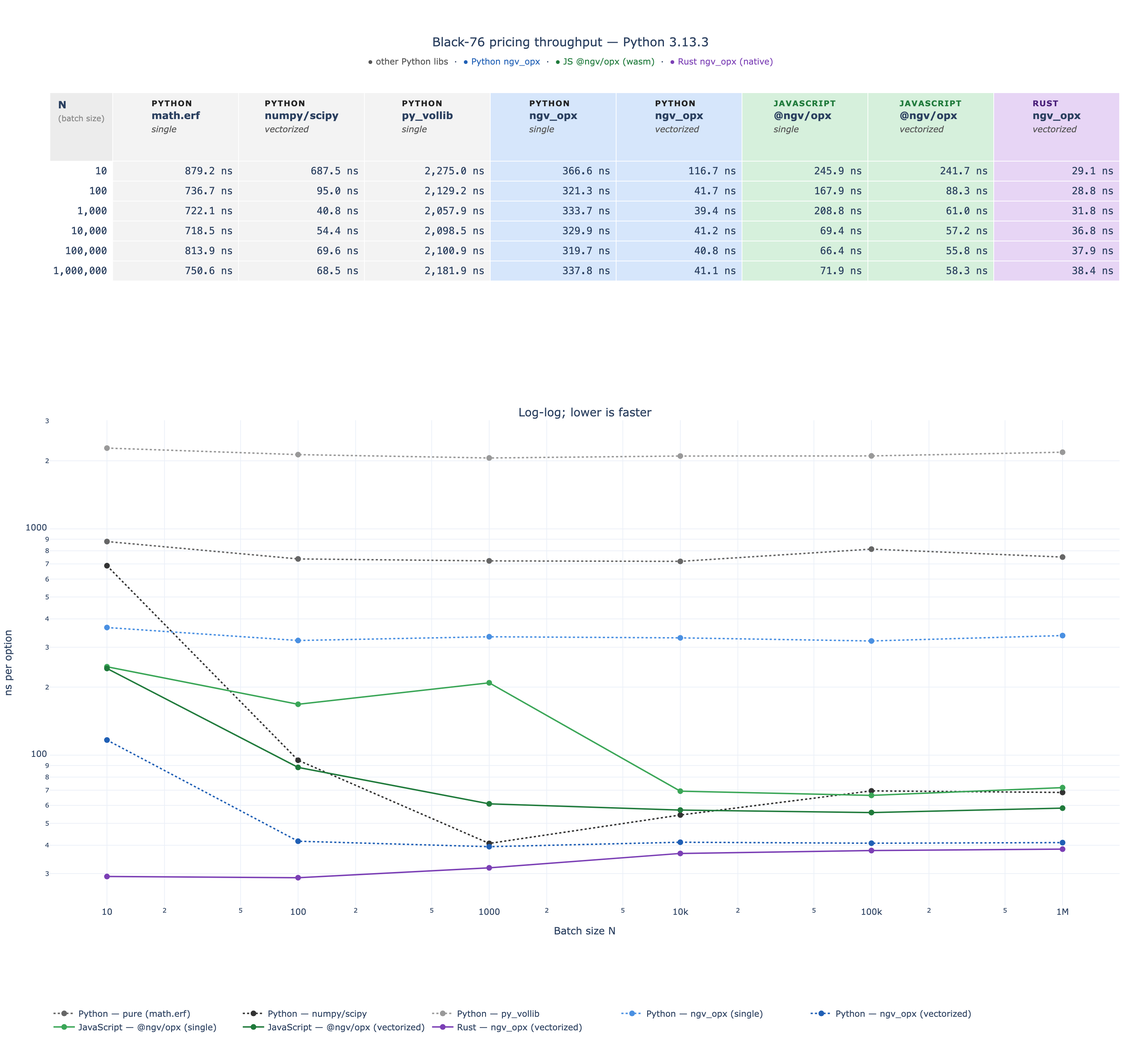
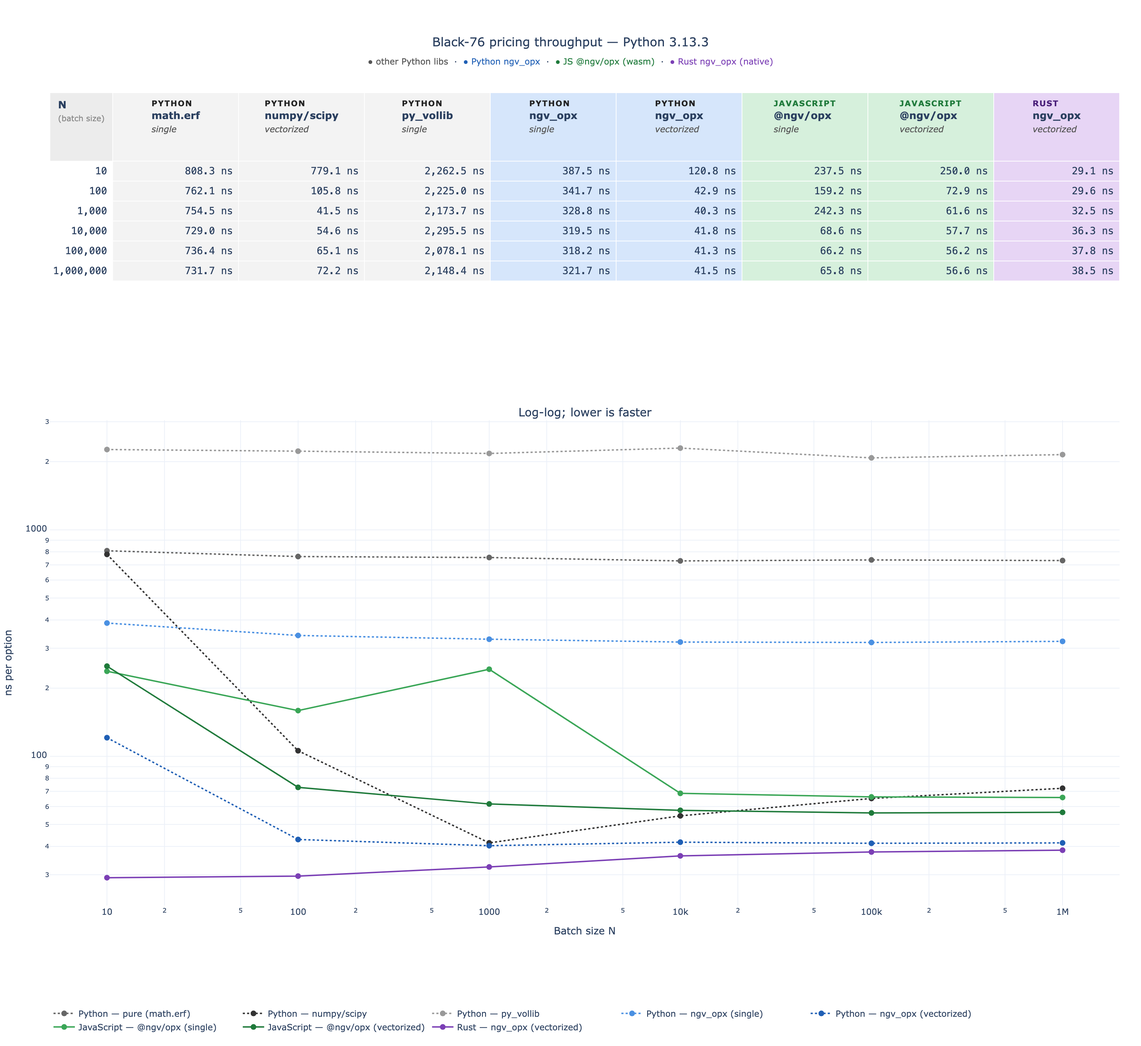
docs: final update on readme

diff --git a/benchmarks/bench_chart.html b/benchmarks/bench_chart.html
@@ -2,6 +2,6 @@
 <head><meta charset="utf-8" /></head>
 <body>
     <div>                        <script>window.PlotlyConfig = {MathJaxConfig: 'local'};</script>
-        <script charset="utf-8" src="https://cdn.plot.ly/plotly-3.5.0.min.js" integrity="sha256-fHbNLP+GlIXN+efbQec78UkemUz3NJp7UmfGxC1tNxs=" crossorigin="anonymous"></script>                <div id="37860feb-a3d4-4de3-b3f6-f09e87c22c12" class="plotly-graph-div" style="height:1100px; width:1200px;"></div>            <script>                window.PLOTLYENV=window.PLOTLYENV || {};                                if (document.getElementById("37860feb-a3d4-4de3-b3f6-f09e87c22c12")) {                    Plotly.newPlot(                        "37860feb-a3d4-4de3-b3f6-f09e87c22c12",                        [{"hovertemplate":"\u003cb\u003ePython — pure (math.erf)\u003c\u002fb\u003e\u003cbr\u003elanguage: Python\u003cbr\u003eN=%{x:,}\u003cbr\u003e%{y:.1f} ns\u002foption\u003cextra\u003e\u003c\u002fextra\u003e","line":{"color":"#666666","dash":"dot","width":2},"marker":{"size":8},"mode":"lines+markers","name":"Python — pure (math.erf)","x":[10,100,1000,10000,100000,1000000],"y":[879.2034350335598,736.6703357547522,722.0830302685499,718.4874964877963,813.9483293052763,750.6183749064803],"type":"scatter","xaxis":"x","yaxis":"y"},{"hovertemplate":"\u003cb\u003ePython — numpy\u002fscipy\u003c\u002fb\u003e\u003cbr\u003elanguage: Python\u003cbr\u003eN=%{x:,}\u003cbr\u003e%{y:.1f} ns\u002foption\u003cextra\u003e\u003c\u002fextra\u003e","line":{"color":"#333333","dash":"dot","width":2},"marker":{"size":8},"mode":"lines+markers","name":"Python — numpy\u002fscipy","x":[10,100,1000,10000,100000,1000000],"y":[687.5023245811462,95.00072337687016,40.75001925230026,54.408295545727015,69.5524993352592,68.46099998801947],"type":"scatter","xaxis":"x","yaxis":"y"},{"hovertemplate":"\u003cb\u003ePython — py_vollib\u003c\u002fb\u003e\u003cbr\u003elanguage: Python\u003cbr\u003eN=%{x:,}\u003cbr\u003e%{y:.1f} ns\u002foption\u003cextra\u003e\u003c\u002fextra\u003e","line":{"color":"#999999","dash":"dot","width":2},"marker":{"size":8},"mode":"lines+markers","name":"Python — py_vollib","x":[10,100,1000,10000,100000,1000000],"y":[2274.999860674143,2129.1710436344147,2057.874924503267,2098.4916016459465,2100.8558303583413,2181.9298750488088],"type":"scatter","xaxis":"x","yaxis":"y"},{"hovertemplate":"\u003cb\u003ePython — ngv_opx (single)\u003c\u002fb\u003e\u003cbr\u003elanguage: Python\u003cbr\u003eN=%{x:,}\u003cbr\u003e%{y:.1f} ns\u002foption\u003cextra\u003e\u003c\u002fextra\u003e","line":{"color":"#4a90e2","dash":"dot","width":2},"marker":{"size":8},"mode":"lines+markers","name":"Python — ngv_opx (single)","x":[10,100,1000,10000,100000,1000000],"y":[366.59184843301773,321.25040888786316,333.6670342832804,329.92910128086805,319.713749922812,337.77124993503094],"type":"scatter","xaxis":"x","yaxis":"y"},{"hovertemplate":"\u003cb\u003ePython — ngv_opx (vectorized)\u003c\u002fb\u003e\u003cbr\u003elanguage: Python\u003cbr\u003eN=%{x:,}\u003cbr\u003e%{y:.1f} ns\u002foption\u003cextra\u003e\u003c\u002fextra\u003e","line":{"color":"#1f5fb5","dash":"dot","width":2},"marker":{"size":8},"mode":"lines+markers","name":"Python — ngv_opx (vectorized)","x":[10,100,1000,10000,100000,1000000],"y":[116.69471859931946,41.66970029473305,39.416016079485416,41.24579718336463,40.838749846443534,41.09254200011492],"type":"scatter","xaxis":"x","yaxis":"y"},{"hovertemplate":"\u003cb\u003eJavaScript — @ngv\u002fopx (single)\u003c\u002fb\u003e\u003cbr\u003elanguage: JavaScript\u003cbr\u003eN=%{x:,}\u003cbr\u003e%{y:.1f} ns\u002foption\u003cextra\u003e\u003c\u002fextra\u003e","line":{"color":"#3aa657","dash":"solid","width":2},"marker":{"size":8},"mode":"lines+markers","name":"JavaScript — @ngv\u002fopx (single)","x":[10,100,1000,10000,100000,1000000],"y":[245.89999999982123,167.91999999998808,208.83300000000204,69.36249999999973,66.41874999999999,71.88162500000001],"type":"scatter","xaxis":"x","yaxis":"y"},{"hovertemplate":"\u003cb\u003eJavaScript — @ngv\u002fopx (vectorized)\u003c\u002fb\u003e\u003cbr\u003elanguage: JavaScript\u003cbr\u003eN=%{x:,}\u003cbr\u003e%{y:.1f} ns\u002foption\u003cextra\u003e\u003c\u002fextra\u003e","line":{"color":"#1f7a3b","dash":"solid","width":2},"marker":{"size":8},"mode":"lines+markers","name":"JavaScript — @ngv\u002fopx (vectorized)","x":[10,100,1000,10000,100000,1000000],"y":[241.7000000001224,88.33000000002754,60.9579999999994,57.22079999999998,55.78916999999996,58.33866699999999],"type":"scatter","xaxis":"x","yaxis":"y"},{"hovertemplate":"\u003cb\u003eRust — ngv_opx (vectorized)\u003c\u002fb\u003e\u003cbr\u003elanguage: Rust\u003cbr\u003eN=%{x:,}\u003cbr\u003e%{y:.1f} ns\u002foption\u003cextra\u003e\u003c\u002fextra\u003e","line":{"color":"#7b3fb5","dash":"solid","width":2},"marker":{"size":8},"mode":"lines+markers","name":"Rust — ngv_opx (vectorized)","x":[10,100,1000,10000,100000,1000000],"y":[29.1,28.75,31.791,36.8,37.9025,38.4487],"type":"scatter","xaxis":"x","yaxis":"y"},{"cells":{"align":"right","fill":{"color":[["white","white","white","white","white","white"],["#f3f3f3","#f3f3f3","#f3f3f3","#f3f3f3","#f3f3f3","#f3f3f3"],["#f3f3f3","#f3f3f3","#f3f3f3","#f3f3f3","#f3f3f3","#f3f3f3"],["#f3f3f3","#f3f3f3","#f3f3f3","#f3f3f3","#f3f3f3","#f3f3f3"],["#d6e6fb","#d6e6fb","#d6e6fb","#d6e6fb","#d6e6fb","#d6e6fb"],["#d6e6fb","#d6e6fb","#d6e6fb","#d6e6fb","#d6e6fb","#d6e6fb"],["#d6f0dc","#d6f0dc","#d6f0dc","#d6f0dc","#d6f0dc","#d6f0dc"],["#d6f0dc","#d6f0dc","#d6f0dc","#d6f0dc","#d6f0dc","#d6f0dc"],["#e7d5f5","#e7d5f5","#e7d5f5","#e7d5f5","#e7d5f5","#e7d5f5"]]},"font":{"family":"monospace","size":14},"height":28,"values":[["10","100","1,000","10,000","100,000","1,000,000"],["879.2 ns","736.7 ns","722.1 ns","718.5 ns","813.9 ns","750.6 ns"],["687.5 ns","95.0 ns","40.8 ns","54.4 ns","69.6 ns","68.5 ns"],["2,275.0 ns","2,129.2 ns","2,057.9 ns","2,098.5 ns","2,100.9 ns","2,181.9 ns"],["366.6 ns","321.3 ns","333.7 ns","329.9 ns","319.7 ns","337.8 ns"],["116.7 ns","41.7 ns","39.4 ns","41.2 ns","40.8 ns","41.1 ns"],["245.9 ns","167.9 ns","208.8 ns","69.4 ns","66.4 ns","71.9 ns"],["241.7 ns","88.3 ns","61.0 ns","57.2 ns","55.8 ns","58.3 ns"],["29.1 ns","28.8 ns","31.8 ns","36.8 ns","37.9 ns","38.4 ns"]]},"columnwidth":[40,80,80,80,80,80,80,80,80],"header":{"align":"center","fill":{"color":["#ececec","#f3f3f3","#f3f3f3","#f3f3f3","#d6e6fb","#d6e6fb","#d6f0dc","#d6f0dc","#e7d5f5"]},"font":{"size":14},"height":96,"values":["\u003cb style='font-size:14px'\u003eN\u003c\u002fb\u003e\u003cbr\u003e\u003cspan style='font-size:11px;color:#888'\u003e(batch size)\u003c\u002fspan\u003e","\u003cspan style='background:#dcdcdc;color:#222222;font-size:11px;font-weight:700;padding:2px 8px;border-radius:3px;letter-spacing:1px;'\u003ePYTHON\u003c\u002fspan\u003e\u003cbr\u003e\u003cspan style='background:#f3f3f3;display:inline-block;padding:1px 8px;border-radius:3px;'\u003e\u003cb style='font-size:14px'\u003emath.erf\u003c\u002fb\u003e\u003c\u002fspan\u003e\u003cbr\u003e\u003cspan style='font-size:12px;color:#555;font-style:italic'\u003esingle\u003c\u002fspan\u003e","\u003cspan style='background:#dcdcdc;color:#222222;font-size:11px;font-weight:700;padding:2px 8px;border-radius:3px;letter-spacing:1px;'\u003ePYTHON\u003c\u002fspan\u003e\u003cbr\u003e\u003cspan style='background:#f3f3f3;display:inline-block;padding:1px 8px;border-radius:3px;'\u003e\u003cb style='font-size:14px'\u003enumpy\u002fscipy\u003c\u002fb\u003e\u003c\u002fspan\u003e\u003cbr\u003e\u003cspan style='font-size:12px;color:#555;font-style:italic'\u003evectorized\u003c\u002fspan\u003e","\u003cspan style='background:#dcdcdc;color:#222222;font-size:11px;font-weight:700;padding:2px 8px;border-radius:3px;letter-spacing:1px;'\u003ePYTHON\u003c\u002fspan\u003e\u003cbr\u003e\u003cspan style='background:#f3f3f3;display:inline-block;padding:1px 8px;border-radius:3px;'\u003e\u003cb style='font-size:14px'\u003epy_vollib\u003c\u002fb\u003e\u003c\u002fspan\u003e\u003cbr\u003e\u003cspan style='font-size:12px;color:#555;font-style:italic'\u003esingle\u003c\u002fspan\u003e","\u003cspan style='background:#dcdcdc;color:#222222;font-size:11px;font-weight:700;padding:2px 8px;border-radius:3px;letter-spacing:1px;'\u003ePYTHON\u003c\u002fspan\u003e\u003cbr\u003e\u003cspan style='background:#d6e6fb;display:inline-block;padding:1px 8px;border-radius:3px;'\u003e\u003cb style='font-size:14px'\u003engv_opx\u003c\u002fb\u003e\u003c\u002fspan\u003e\u003cbr\u003e\u003cspan style='font-size:12px;color:#555;font-style:italic'\u003esingle\u003c\u002fspan\u003e","\u003cspan style='background:#dcdcdc;color:#222222;font-size:11px;font-weight:700;padding:2px 8px;border-radius:3px;letter-spacing:1px;'\u003ePYTHON\u003c\u002fspan\u003e\u003cbr\u003e\u003cspan style='background:#d6e6fb;display:inline-block;padding:1px 8px;border-radius:3px;'\u003e\u003cb style='font-size:14px'\u003engv_opx\u003c\u002fb\u003e\u003c\u002fspan\u003e\u003cbr\u003e\u003cspan style='font-size:12px;color:#555;font-style:italic'\u003evectorized\u003c\u002fspan\u003e","\u003cspan style='background:#c8e6cf;color:#1f7a3b;font-size:11px;font-weight:700;padding:2px 8px;border-radius:3px;letter-spacing:1px;'\u003eJAVASCRIPT\u003c\u002fspan\u003e\u003cbr\u003e\u003cspan style='background:#d6f0dc;display:inline-block;padding:1px 8px;border-radius:3px;'\u003e\u003cb style='font-size:14px'\u003e@ngv\u002fopx\u003c\u002fb\u003e\u003c\u002fspan\u003e\u003cbr\u003e\u003cspan style='font-size:12px;color:#555;font-style:italic'\u003esingle\u003c\u002fspan\u003e","\u003cspan style='background:#c8e6cf;color:#1f7a3b;font-size:11px;font-weight:700;padding:2px 8px;border-radius:3px;letter-spacing:1px;'\u003eJAVASCRIPT\u003c\u002fspan\u003e\u003cbr\u003e\u003cspan style='background:#d6f0dc;display:inline-block;padding:1px 8px;border-radius:3px;'\u003e\u003cb style='font-size:14px'\u003e@ngv\u002fopx\u003c\u002fb\u003e\u003c\u002fspan\u003e\u003cbr\u003e\u003cspan style='font-size:12px;color:#555;font-style:italic'\u003evectorized\u003c\u002fspan\u003e","\u003cspan style='background:#d8c4ea;color:#4a1f7a;font-size:11px;font-weight:700;padding:2px 8px;border-radius:3px;letter-spacing:1px;'\u003eRUST\u003c\u002fspan\u003e\u003cbr\u003e\u003cspan style='background:#e7d5f5;display:inline-block;padding:1px 8px;border-radius:3px;'\u003e\u003cb style='font-size:14px'\u003engv_opx\u003c\u002fb\u003e\u003c\u002fspan\u003e\u003cbr\u003e\u003cspan style='font-size:12px;color:#555;font-style:italic'\u003evectorized\u003c\u002fspan\u003e"]},"type":"table","domain":{"x":[0.0,1.0],"y":[0.602,1.0]}}],                        {"template":{"data":{"barpolar":[{"marker":{"line":{"color":"white","width":0.5},"pattern":{"fillmode":"overlay","size":10,"solidity":0.2}},"type":"barpolar"}],"bar":[{"error_x":{"color":"#2a3f5f"},"error_y":{"color":"#2a3f5f"},"marker":{"line":{"color":"white","width":0.5},"pattern":{"fillmode":"overlay","size":10,"solidity":0.2}},"type":"bar"}],"carpet":[{"aaxis":{"endlinecolor":"#2a3f5f","gridcolor":"#C8D4E3","linecolor":"#C8D4E3","minorgridcolor":"#C8D4E3","startlinecolor":"#2a3f5f"},"baxis":{"endlinecolor":"#2a3f5f","gridcolor":"#C8D4E3","linecolor":"#C8D4E3","minorgridcolor":"#C8D4E3","startlinecolor":"#2a3f5f"},"type":"carpet"}],"choropleth":[{"colorbar":{"outlinewidth":0,"ticks":""},"type":"choropleth"}],"contourcarpet":[{"colorbar":{"outlinewidth":0,"ticks":""},"type":"contourcarpet"}],"contour":[{"colorbar":{"outlinewidth":0,"ticks":""},"colorscale":[[0.0,"#0d0887"],[0.1111111111111111,"#46039f"],[0.2222222222222222,"#7201a8"],[0.3333333333333333,"#9c179e"],[0.4444444444444444,"#bd3786"],[0.5555555555555556,"#d8576b"],[0.6666666666666666,"#ed7953"],[0.7777777777777778,"#fb9f3a"],[0.8888888888888888,"#fdca26"],[1.0,"#f0f921"]],"type":"contour"}],"heatmap":[{"colorbar":{"outlinewidth":0,"ticks":""},"colorscale":[[0.0,"#0d0887"],[0.1111111111111111,"#46039f"],[0.2222222222222222,"#7201a8"],[0.3333333333333333,"#9c179e"],[0.4444444444444444,"#bd3786"],[0.5555555555555556,"#d8576b"],[0.6666666666666666,"#ed7953"],[0.7777777777777778,"#fb9f3a"],[0.8888888888888888,"#fdca26"],[1.0,"#f0f921"]],"type":"heatmap"}],"histogram2dcontour":[{"colorbar":{"outlinewidth":0,"ticks":""},"colorscale":[[0.0,"#0d0887"],[0.1111111111111111,"#46039f"],[0.2222222222222222,"#7201a8"],[0.3333333333333333,"#9c179e"],[0.4444444444444444,"#bd3786"],[0.5555555555555556,"#d8576b"],[0.6666666666666666,"#ed7953"],[0.7777777777777778,"#fb9f3a"],[0.8888888888888888,"#fdca26"],[1.0,"#f0f921"]],"type":"histogram2dcontour"}],"histogram2d":[{"colorbar":{"outlinewidth":0,"ticks":""},"colorscale":[[0.0,"#0d0887"],[0.1111111111111111,"#46039f"],[0.2222222222222222,"#7201a8"],[0.3333333333333333,"#9c179e"],[0.4444444444444444,"#bd3786"],[0.5555555555555556,"#d8576b"],[0.6666666666666666,"#ed7953"],[0.7777777777777778,"#fb9f3a"],[0.8888888888888888,"#fdca26"],[1.0,"#f0f921"]],"type":"histogram2d"}],"histogram":[{"marker":{"pattern":{"fillmode":"overlay","size":10,"solidity":0.2}},"type":"histogram"}],"mesh3d":[{"colorbar":{"outlinewidth":0,"ticks":""},"type":"mesh3d"}],"parcoords":[{"line":{"colorbar":{"outlinewidth":0,"ticks":""}},"type":"parcoords"}],"pie":[{"automargin":true,"type":"pie"}],"scatter3d":[{"line":{"colorbar":{"outlinewidth":0,"ticks":""}},"marker":{"colorbar":{"outlinewidth":0,"ticks":""}},"type":"scatter3d"}],"scattercarpet":[{"marker":{"colorbar":{"outlinewidth":0,"ticks":""}},"type":"scattercarpet"}],"scattergeo":[{"marker":{"colorbar":{"outlinewidth":0,"ticks":""}},"type":"scattergeo"}],"scattergl":[{"marker":{"colorbar":{"outlinewidth":0,"ticks":""}},"type":"scattergl"}],"scattermapbox":[{"marker":{"colorbar":{"outlinewidth":0,"ticks":""}},"type":"scattermapbox"}],"scattermap":[{"marker":{"colorbar":{"outlinewidth":0,"ticks":""}},"type":"scattermap"}],"scatterpolargl":[{"marker":{"colorbar":{"outlinewidth":0,"ticks":""}},"type":"scatterpolargl"}],"scatterpolar":[{"marker":{"colorbar":{"outlinewidth":0,"ticks":""}},"type":"scatterpolar"}],"scatter":[{"fillpattern":{"fillmode":"overlay","size":10,"solidity":0.2},"type":"scatter"}],"scatterternary":[{"marker":{"colorbar":{"outlinewidth":0,"ticks":""}},"type":"scatterternary"}],"surface":[{"colorbar":{"outlinewidth":0,"ticks":""},"colorscale":[[0.0,"#0d0887"],[0.1111111111111111,"#46039f"],[0.2222222222222222,"#7201a8"],[0.3333333333333333,"#9c179e"],[0.4444444444444444,"#bd3786"],[0.5555555555555556,"#d8576b"],[0.6666666666666666,"#ed7953"],[0.7777777777777778,"#fb9f3a"],[0.8888888888888888,"#fdca26"],[1.0,"#f0f921"]],"type":"surface"}],"table":[{"cells":{"fill":{"color":"#EBF0F8"},"line":{"color":"white"}},"header":{"fill":{"color":"#C8D4E3"},"line":{"color":"white"}},"type":"table"}]},"layout":{"annotationdefaults":{"arrowcolor":"#2a3f5f","arrowhead":0,"arrowwidth":1},"autotypenumbers":"strict","coloraxis":{"colorbar":{"outlinewidth":0,"ticks":""}},"colorscale":{"diverging":[[0,"#8e0152"],[0.1,"#c51b7d"],[0.2,"#de77ae"],[0.3,"#f1b6da"],[0.4,"#fde0ef"],[0.5,"#f7f7f7"],[0.6,"#e6f5d0"],[0.7,"#b8e186"],[0.8,"#7fbc41"],[0.9,"#4d9221"],[1,"#276419"]],"sequential":[[0.0,"#0d0887"],[0.1111111111111111,"#46039f"],[0.2222222222222222,"#7201a8"],[0.3333333333333333,"#9c179e"],[0.4444444444444444,"#bd3786"],[0.5555555555555556,"#d8576b"],[0.6666666666666666,"#ed7953"],[0.7777777777777778,"#fb9f3a"],[0.8888888888888888,"#fdca26"],[1.0,"#f0f921"]],"sequentialminus":[[0.0,"#0d0887"],[0.1111111111111111,"#46039f"],[0.2222222222222222,"#7201a8"],[0.3333333333333333,"#9c179e"],[0.4444444444444444,"#bd3786"],[0.5555555555555556,"#d8576b"],[0.6666666666666666,"#ed7953"],[0.7777777777777778,"#fb9f3a"],[0.8888888888888888,"#fdca26"],[1.0,"#f0f921"]]},"colorway":["#636efa","#EF553B","#00cc96","#ab63fa","#FFA15A","#19d3f3","#FF6692","#B6E880","#FF97FF","#FECB52"],"font":{"color":"#2a3f5f"},"geo":{"bgcolor":"white","lakecolor":"white","landcolor":"white","showlakes":true,"showland":true,"subunitcolor":"#C8D4E3"},"hoverlabel":{"align":"left"},"hovermode":"closest","mapbox":{"style":"light"},"paper_bgcolor":"white","plot_bgcolor":"white","polar":{"angularaxis":{"gridcolor":"#EBF0F8","linecolor":"#EBF0F8","ticks":""},"bgcolor":"white","radialaxis":{"gridcolor":"#EBF0F8","linecolor":"#EBF0F8","ticks":""}},"scene":{"xaxis":{"backgroundcolor":"white","gridcolor":"#DFE8F3","gridwidth":2,"linecolor":"#EBF0F8","showbackground":true,"ticks":"","zerolinecolor":"#EBF0F8"},"yaxis":{"backgroundcolor":"white","gridcolor":"#DFE8F3","gridwidth":2,"linecolor":"#EBF0F8","showbackground":true,"ticks":"","zerolinecolor":"#EBF0F8"},"zaxis":{"backgroundcolor":"white","gridcolor":"#DFE8F3","gridwidth":2,"linecolor":"#EBF0F8","showbackground":true,"ticks":"","zerolinecolor":"#EBF0F8"}},"shapedefaults":{"line":{"color":"#2a3f5f"}},"ternary":{"aaxis":{"gridcolor":"#DFE8F3","linecolor":"#A2B1C6","ticks":""},"baxis":{"gridcolor":"#DFE8F3","linecolor":"#A2B1C6","ticks":""},"bgcolor":"white","caxis":{"gridcolor":"#DFE8F3","linecolor":"#A2B1C6","ticks":""}},"title":{"x":0.05},"xaxis":{"automargin":true,"gridcolor":"#EBF0F8","linecolor":"#EBF0F8","ticks":"","title":{"standoff":15},"zerolinecolor":"#EBF0F8","zerolinewidth":2},"yaxis":{"automargin":true,"gridcolor":"#EBF0F8","linecolor":"#EBF0F8","ticks":"","title":{"standoff":15},"zerolinecolor":"#EBF0F8","zerolinewidth":2}}},"xaxis":{"anchor":"y","domain":[0.0,1.0],"title":{"text":"Batch size N"},"type":"log","showgrid":true},"yaxis":{"anchor":"x","domain":[0.0,0.597],"title":{"text":"ns per option"},"type":"log","showgrid":true},"annotations":[{"font":{"size":16},"showarrow":false,"text":"Log-log; lower is faster","x":0.5,"xanchor":"center","xref":"paper","y":0.597,"yanchor":"bottom","yref":"paper"}],"title":{"text":"Black-76 pricing throughput — Python 3.13.3\u003cbr\u003e\u003csub\u003e\u003cspan style='color:#555'\u003e● other Python libs\u003c\u002fspan\u003e &nbsp;·&nbsp; \u003cspan style='color:#1f5fb5'\u003e● Python ngv_opx\u003c\u002fspan\u003e &nbsp;·&nbsp; \u003cspan style='color:#1f7a3b'\u003e● JS @ngv\u002fopx (wasm)\u003c\u002fspan\u003e &nbsp;·&nbsp; \u003cspan style='color:#7b3fb5'\u003e● Rust ngv_opx (native)\u003c\u002fspan\u003e\u003c\u002fsub\u003e","x":0.5,"xanchor":"center"},"legend":{"orientation":"h","yanchor":"top","y":-0.12,"x":0.0},"margin":{"l":70,"r":30,"t":130,"b":80},"height":1100,"width":1200},                        {"responsive": true}                    )                };            </script>        </div>
+        <script charset="utf-8" src="https://cdn.plot.ly/plotly-3.5.0.min.js" integrity="sha256-fHbNLP+GlIXN+efbQec78UkemUz3NJp7UmfGxC1tNxs=" crossorigin="anonymous"></script>                <div id="cc1c2cda-a275-48eb-b82c-cc77c47b3e00" class="plotly-graph-div" style="height:1100px; width:1200px;"></div>            <script>                window.PLOTLYENV=window.PLOTLYENV || {};                                if (document.getElementById("cc1c2cda-a275-48eb-b82c-cc77c47b3e00")) {                    Plotly.newPlot(                        "cc1c2cda-a275-48eb-b82c-cc77c47b3e00",                        [{"hovertemplate":"\u003cb\u003ePython — pure (math.erf)\u003c\u002fb\u003e\u003cbr\u003elanguage: Python\u003cbr\u003eN=%{x:,}\u003cbr\u003e%{y:.1f} ns\u002foption\u003cextra\u003e\u003c\u002fextra\u003e","line":{"color":"#666666","dash":"dot","width":2},"marker":{"size":8},"mode":"lines+markers","name":"Python — pure (math.erf)","x":[10,100,1000,10000,100000,1000000],"y":[808.3065040409565,762.079143896699,754.5000407844782,729.0291949175298,736.4125002641231,731.6722919931635],"type":"scatter","xaxis":"x","yaxis":"y"},{"hovertemplate":"\u003cb\u003ePython — numpy\u002fscipy\u003c\u002fb\u003e\u003cbr\u003elanguage: Python\u003cbr\u003eN=%{x:,}\u003cbr\u003e%{y:.1f} ns\u002foption\u003cextra\u003e\u003c\u002fextra\u003e","line":{"color":"#333333","dash":"dot","width":2},"marker":{"size":8},"mode":"lines+markers","name":"Python — numpy\u002fscipy","x":[10,100,1000,10000,100000,1000000],"y":[779.0978997945786,105.8308407664299,41.45794082432985,54.574990645051,65.14084059745073,72.2354999743402],"type":"scatter","xaxis":"x","yaxis":"y"},{"hovertemplate":"\u003cb\u003ePython — py_vollib\u003c\u002fb\u003e\u003cbr\u003elanguage: Python\u003cbr\u003eN=%{x:,}\u003cbr\u003e%{y:.1f} ns\u002foption\u003cextra\u003e\u003c\u002fextra\u003e","line":{"color":"#999999","dash":"dot","width":2},"marker":{"size":8},"mode":"lines+markers","name":"Python — py_vollib","x":[10,100,1000,10000,100000,1000000],"y":[2262.49685510993,2224.9994799494743,2173.708053305745,2295.5124964937568,2078.06000020355,2148.385624983348],"type":"scatter","xaxis":"x","yaxis":"y"},{"hovertemplate":"\u003cb\u003ePython — ngv_opx (single)\u003c\u002fb\u003e\u003cbr\u003elanguage: Python\u003cbr\u003eN=%{x:,}\u003cbr\u003e%{y:.1f} ns\u002foption\u003cextra\u003e\u003c\u002fextra\u003e","line":{"color":"#4a90e2","dash":"dot","width":2},"marker":{"size":8},"mode":"lines+markers","name":"Python — ngv_opx (single)","x":[10,100,1000,10000,100000,1000000],"y":[387.5000402331352,341.66034311056137,328.8340521976352,319.47080278769135,318.1537496857345,321.7345830053091],"type":"scatter","xaxis":"x","yaxis":"y"},{"hovertemplate":"\u003cb\u003ePython — ngv_opx (vectorized)\u003c\u002fb\u003e\u003cbr\u003elanguage: Python\u003cbr\u003eN=%{x:,}\u003cbr\u003e%{y:.1f} ns\u002foption\u003cextra\u003e\u003c\u002fextra\u003e","line":{"color":"#1f5fb5","dash":"dot","width":2},"marker":{"size":8},"mode":"lines+markers","name":"Python — ngv_opx (vectorized)","x":[10,100,1000,10000,100000,1000000],"y":[120.80417945981026,42.92000085115433,40.2920413762331,41.75420617684722,41.29624925553799,41.45312507171184],"type":"scatter","xaxis":"x","yaxis":"y"},{"hovertemplate":"\u003cb\u003eJavaScript — @ngv\u002fopx (single)\u003c\u002fb\u003e\u003cbr\u003elanguage: JavaScript\u003cbr\u003eN=%{x:,}\u003cbr\u003e%{y:.1f} ns\u002foption\u003cextra\u003e\u003c\u002fextra\u003e","line":{"color":"#3aa657","dash":"solid","width":2},"marker":{"size":8},"mode":"lines+markers","name":"JavaScript — @ngv\u002fopx (single)","x":[10,100,1000,10000,100000,1000000],"y":[237.50000000006818,159.17000000001735,242.33300000000213,68.62500000000011,66.15791999999999,65.773208],"type":"scatter","xaxis":"x","yaxis":"y"},{"hovertemplate":"\u003cb\u003eJavaScript — @ngv\u002fopx (vectorized)\u003c\u002fb\u003e\u003cbr\u003elanguage: JavaScript\u003cbr\u003eN=%{x:,}\u003cbr\u003e%{y:.1f} ns\u002foption\u003cextra\u003e\u003c\u002fextra\u003e","line":{"color":"#1f7a3b","dash":"solid","width":2},"marker":{"size":8},"mode":"lines+markers","name":"JavaScript — @ngv\u002fopx (vectorized)","x":[10,100,1000,10000,100000,1000000],"y":[250.0000000001279,72.91999999999632,61.582999999998826,57.73340000000004,56.20834000000003,56.56916699999999],"type":"scatter","xaxis":"x","yaxis":"y"},{"hovertemplate":"\u003cb\u003eRust — ngv_opx (vectorized)\u003c\u002fb\u003e\u003cbr\u003elanguage: Rust\u003cbr\u003eN=%{x:,}\u003cbr\u003e%{y:.1f} ns\u002foption\u003cextra\u003e\u003c\u002fextra\u003e","line":{"color":"#7b3fb5","dash":"solid","width":2},"marker":{"size":8},"mode":"lines+markers","name":"Rust — ngv_opx (vectorized)","x":[10,100,1000,10000,100000,1000000],"y":[29.1,29.58,32.458,36.3333,37.8021,38.4989],"type":"scatter","xaxis":"x","yaxis":"y"},{"cells":{"align":"right","fill":{"color":[["white","white","white","white","white","white"],["#f3f3f3","#f3f3f3","#f3f3f3","#f3f3f3","#f3f3f3","#f3f3f3"],["#f3f3f3","#f3f3f3","#f3f3f3","#f3f3f3","#f3f3f3","#f3f3f3"],["#f3f3f3","#f3f3f3","#f3f3f3","#f3f3f3","#f3f3f3","#f3f3f3"],["#d6e6fb","#d6e6fb","#d6e6fb","#d6e6fb","#d6e6fb","#d6e6fb"],["#d6e6fb","#d6e6fb","#d6e6fb","#d6e6fb","#d6e6fb","#d6e6fb"],["#d6f0dc","#d6f0dc","#d6f0dc","#d6f0dc","#d6f0dc","#d6f0dc"],["#d6f0dc","#d6f0dc","#d6f0dc","#d6f0dc","#d6f0dc","#d6f0dc"],["#e7d5f5","#e7d5f5","#e7d5f5","#e7d5f5","#e7d5f5","#e7d5f5"]]},"font":{"family":"monospace","size":14},"height":28,"values":[["10","100","1,000","10,000","100,000","1,000,000"],["808.3 ns","762.1 ns","754.5 ns","729.0 ns","736.4 ns","731.7 ns"],["779.1 ns","105.8 ns","41.5 ns","54.6 ns","65.1 ns","72.2 ns"],["2,262.5 ns","2,225.0 ns","2,173.7 ns","2,295.5 ns","2,078.1 ns","2,148.4 ns"],["387.5 ns","341.7 ns","328.8 ns","319.5 ns","318.2 ns","321.7 ns"],["120.8 ns","42.9 ns","40.3 ns","41.8 ns","41.3 ns","41.5 ns"],["237.5 ns","159.2 ns","242.3 ns","68.6 ns","66.2 ns","65.8 ns"],["250.0 ns","72.9 ns","61.6 ns","57.7 ns","56.2 ns","56.6 ns"],["29.1 ns","29.6 ns","32.5 ns","36.3 ns","37.8 ns","38.5 ns"]]},"columnwidth":[40,80,80,80,80,80,80,80,80],"header":{"align":"center","fill":{"color":["#ececec","#f3f3f3","#f3f3f3","#f3f3f3","#d6e6fb","#d6e6fb","#d6f0dc","#d6f0dc","#e7d5f5"]},"font":{"size":14},"height":96,"values":["\u003cb style='font-size:14px'\u003eN\u003c\u002fb\u003e\u003cbr\u003e\u003cspan style='font-size:11px;color:#888'\u003e(batch size)\u003c\u002fspan\u003e","\u003cspan style='background:#dcdcdc;color:#222222;font-size:11px;font-weight:700;padding:2px 8px;border-radius:3px;letter-spacing:1px;'\u003ePYTHON\u003c\u002fspan\u003e\u003cbr\u003e\u003cspan style='background:#f3f3f3;display:inline-block;padding:1px 8px;border-radius:3px;'\u003e\u003cb style='font-size:14px'\u003emath.erf\u003c\u002fb\u003e\u003c\u002fspan\u003e\u003cbr\u003e\u003cspan style='font-size:12px;color:#555;font-style:italic'\u003esingle\u003c\u002fspan\u003e","\u003cspan style='background:#dcdcdc;color:#222222;font-size:11px;font-weight:700;padding:2px 8px;border-radius:3px;letter-spacing:1px;'\u003ePYTHON\u003c\u002fspan\u003e\u003cbr\u003e\u003cspan style='background:#f3f3f3;display:inline-block;padding:1px 8px;border-radius:3px;'\u003e\u003cb style='font-size:14px'\u003enumpy\u002fscipy\u003c\u002fb\u003e\u003c\u002fspan\u003e\u003cbr\u003e\u003cspan style='font-size:12px;color:#555;font-style:italic'\u003evectorized\u003c\u002fspan\u003e","\u003cspan style='background:#dcdcdc;color:#222222;font-size:11px;font-weight:700;padding:2px 8px;border-radius:3px;letter-spacing:1px;'\u003ePYTHON\u003c\u002fspan\u003e\u003cbr\u003e\u003cspan style='background:#f3f3f3;display:inline-block;padding:1px 8px;border-radius:3px;'\u003e\u003cb style='font-size:14px'\u003epy_vollib\u003c\u002fb\u003e\u003c\u002fspan\u003e\u003cbr\u003e\u003cspan style='font-size:12px;color:#555;font-style:italic'\u003esingle\u003c\u002fspan\u003e","\u003cspan style='background:#dcdcdc;color:#222222;font-size:11px;font-weight:700;padding:2px 8px;border-radius:3px;letter-spacing:1px;'\u003ePYTHON\u003c\u002fspan\u003e\u003cbr\u003e\u003cspan style='background:#d6e6fb;display:inline-block;padding:1px 8px;border-radius:3px;'\u003e\u003cb style='font-size:14px'\u003engv_opx\u003c\u002fb\u003e\u003c\u002fspan\u003e\u003cbr\u003e\u003cspan style='font-size:12px;color:#555;font-style:italic'\u003esingle\u003c\u002fspan\u003e","\u003cspan style='background:#dcdcdc;color:#222222;font-size:11px;font-weight:700;padding:2px 8px;border-radius:3px;letter-spacing:1px;'\u003ePYTHON\u003c\u002fspan\u003e\u003cbr\u003e\u003cspan style='background:#d6e6fb;display:inline-block;padding:1px 8px;border-radius:3px;'\u003e\u003cb style='font-size:14px'\u003engv_opx\u003c\u002fb\u003e\u003c\u002fspan\u003e\u003cbr\u003e\u003cspan style='font-size:12px;color:#555;font-style:italic'\u003evectorized\u003c\u002fspan\u003e","\u003cspan style='background:#c8e6cf;color:#1f7a3b;font-size:11px;font-weight:700;padding:2px 8px;border-radius:3px;letter-spacing:1px;'\u003eJAVASCRIPT\u003c\u002fspan\u003e\u003cbr\u003e\u003cspan style='background:#d6f0dc;display:inline-block;padding:1px 8px;border-radius:3px;'\u003e\u003cb style='font-size:14px'\u003e@ngv\u002fopx\u003c\u002fb\u003e\u003c\u002fspan\u003e\u003cbr\u003e\u003cspan style='font-size:12px;color:#555;font-style:italic'\u003esingle\u003c\u002fspan\u003e","\u003cspan style='background:#c8e6cf;color:#1f7a3b;font-size:11px;font-weight:700;padding:2px 8px;border-radius:3px;letter-spacing:1px;'\u003eJAVASCRIPT\u003c\u002fspan\u003e\u003cbr\u003e\u003cspan style='background:#d6f0dc;display:inline-block;padding:1px 8px;border-radius:3px;'\u003e\u003cb style='font-size:14px'\u003e@ngv\u002fopx\u003c\u002fb\u003e\u003c\u002fspan\u003e\u003cbr\u003e\u003cspan style='font-size:12px;color:#555;font-style:italic'\u003evectorized\u003c\u002fspan\u003e","\u003cspan style='background:#d8c4ea;color:#4a1f7a;font-size:11px;font-weight:700;padding:2px 8px;border-radius:3px;letter-spacing:1px;'\u003eRUST\u003c\u002fspan\u003e\u003cbr\u003e\u003cspan style='background:#e7d5f5;display:inline-block;padding:1px 8px;border-radius:3px;'\u003e\u003cb style='font-size:14px'\u003engv_opx\u003c\u002fb\u003e\u003c\u002fspan\u003e\u003cbr\u003e\u003cspan style='font-size:12px;color:#555;font-style:italic'\u003evectorized\u003c\u002fspan\u003e"]},"type":"table","domain":{"x":[0.0,1.0],"y":[0.602,1.0]}}],                        {"template":{"data":{"barpolar":[{"marker":{"line":{"color":"white","width":0.5},"pattern":{"fillmode":"overlay","size":10,"solidity":0.2}},"type":"barpolar"}],"bar":[{"error_x":{"color":"#2a3f5f"},"error_y":{"color":"#2a3f5f"},"marker":{"line":{"color":"white","width":0.5},"pattern":{"fillmode":"overlay","size":10,"solidity":0.2}},"type":"bar"}],"carpet":[{"aaxis":{"endlinecolor":"#2a3f5f","gridcolor":"#C8D4E3","linecolor":"#C8D4E3","minorgridcolor":"#C8D4E3","startlinecolor":"#2a3f5f"},"baxis":{"endlinecolor":"#2a3f5f","gridcolor":"#C8D4E3","linecolor":"#C8D4E3","minorgridcolor":"#C8D4E3","startlinecolor":"#2a3f5f"},"type":"carpet"}],"choropleth":[{"colorbar":{"outlinewidth":0,"ticks":""},"type":"choropleth"}],"contourcarpet":[{"colorbar":{"outlinewidth":0,"ticks":""},"type":"contourcarpet"}],"contour":[{"colorbar":{"outlinewidth":0,"ticks":""},"colorscale":[[0.0,"#0d0887"],[0.1111111111111111,"#46039f"],[0.2222222222222222,"#7201a8"],[0.3333333333333333,"#9c179e"],[0.4444444444444444,"#bd3786"],[0.5555555555555556,"#d8576b"],[0.6666666666666666,"#ed7953"],[0.7777777777777778,"#fb9f3a"],[0.8888888888888888,"#fdca26"],[1.0,"#f0f921"]],"type":"contour"}],"heatmap":[{"colorbar":{"outlinewidth":0,"ticks":""},"colorscale":[[0.0,"#0d0887"],[0.1111111111111111,"#46039f"],[0.2222222222222222,"#7201a8"],[0.3333333333333333,"#9c179e"],[0.4444444444444444,"#bd3786"],[0.5555555555555556,"#d8576b"],[0.6666666666666666,"#ed7953"],[0.7777777777777778,"#fb9f3a"],[0.8888888888888888,"#fdca26"],[1.0,"#f0f921"]],"type":"heatmap"}],"histogram2dcontour":[{"colorbar":{"outlinewidth":0,"ticks":""},"colorscale":[[0.0,"#0d0887"],[0.1111111111111111,"#46039f"],[0.2222222222222222,"#7201a8"],[0.3333333333333333,"#9c179e"],[0.4444444444444444,"#bd3786"],[0.5555555555555556,"#d8576b"],[0.6666666666666666,"#ed7953"],[0.7777777777777778,"#fb9f3a"],[0.8888888888888888,"#fdca26"],[1.0,"#f0f921"]],"type":"histogram2dcontour"}],"histogram2d":[{"colorbar":{"outlinewidth":0,"ticks":""},"colorscale":[[0.0,"#0d0887"],[0.1111111111111111,"#46039f"],[0.2222222222222222,"#7201a8"],[0.3333333333333333,"#9c179e"],[0.4444444444444444,"#bd3786"],[0.5555555555555556,"#d8576b"],[0.6666666666666666,"#ed7953"],[0.7777777777777778,"#fb9f3a"],[0.8888888888888888,"#fdca26"],[1.0,"#f0f921"]],"type":"histogram2d"}],"histogram":[{"marker":{"pattern":{"fillmode":"overlay","size":10,"solidity":0.2}},"type":"histogram"}],"mesh3d":[{"colorbar":{"outlinewidth":0,"ticks":""},"type":"mesh3d"}],"parcoords":[{"line":{"colorbar":{"outlinewidth":0,"ticks":""}},"type":"parcoords"}],"pie":[{"automargin":true,"type":"pie"}],"scatter3d":[{"line":{"colorbar":{"outlinewidth":0,"ticks":""}},"marker":{"colorbar":{"outlinewidth":0,"ticks":""}},"type":"scatter3d"}],"scattercarpet":[{"marker":{"colorbar":{"outlinewidth":0,"ticks":""}},"type":"scattercarpet"}],"scattergeo":[{"marker":{"colorbar":{"outlinewidth":0,"ticks":""}},"type":"scattergeo"}],"scattergl":[{"marker":{"colorbar":{"outlinewidth":0,"ticks":""}},"type":"scattergl"}],"scattermapbox":[{"marker":{"colorbar":{"outlinewidth":0,"ticks":""}},"type":"scattermapbox"}],"scattermap":[{"marker":{"colorbar":{"outlinewidth":0,"ticks":""}},"type":"scattermap"}],"scatterpolargl":[{"marker":{"colorbar":{"outlinewidth":0,"ticks":""}},"type":"scatterpolargl"}],"scatterpolar":[{"marker":{"colorbar":{"outlinewidth":0,"ticks":""}},"type":"scatterpolar"}],"scatter":[{"fillpattern":{"fillmode":"overlay","size":10,"solidity":0.2},"type":"scatter"}],"scatterternary":[{"marker":{"colorbar":{"outlinewidth":0,"ticks":""}},"type":"scatterternary"}],"surface":[{"colorbar":{"outlinewidth":0,"ticks":""},"colorscale":[[0.0,"#0d0887"],[0.1111111111111111,"#46039f"],[0.2222222222222222,"#7201a8"],[0.3333333333333333,"#9c179e"],[0.4444444444444444,"#bd3786"],[0.5555555555555556,"#d8576b"],[0.6666666666666666,"#ed7953"],[0.7777777777777778,"#fb9f3a"],[0.8888888888888888,"#fdca26"],[1.0,"#f0f921"]],"type":"surface"}],"table":[{"cells":{"fill":{"color":"#EBF0F8"},"line":{"color":"white"}},"header":{"fill":{"color":"#C8D4E3"},"line":{"color":"white"}},"type":"table"}]},"layout":{"annotationdefaults":{"arrowcolor":"#2a3f5f","arrowhead":0,"arrowwidth":1},"autotypenumbers":"strict","coloraxis":{"colorbar":{"outlinewidth":0,"ticks":""}},"colorscale":{"diverging":[[0,"#8e0152"],[0.1,"#c51b7d"],[0.2,"#de77ae"],[0.3,"#f1b6da"],[0.4,"#fde0ef"],[0.5,"#f7f7f7"],[0.6,"#e6f5d0"],[0.7,"#b8e186"],[0.8,"#7fbc41"],[0.9,"#4d9221"],[1,"#276419"]],"sequential":[[0.0,"#0d0887"],[0.1111111111111111,"#46039f"],[0.2222222222222222,"#7201a8"],[0.3333333333333333,"#9c179e"],[0.4444444444444444,"#bd3786"],[0.5555555555555556,"#d8576b"],[0.6666666666666666,"#ed7953"],[0.7777777777777778,"#fb9f3a"],[0.8888888888888888,"#fdca26"],[1.0,"#f0f921"]],"sequentialminus":[[0.0,"#0d0887"],[0.1111111111111111,"#46039f"],[0.2222222222222222,"#7201a8"],[0.3333333333333333,"#9c179e"],[0.4444444444444444,"#bd3786"],[0.5555555555555556,"#d8576b"],[0.6666666666666666,"#ed7953"],[0.7777777777777778,"#fb9f3a"],[0.8888888888888888,"#fdca26"],[1.0,"#f0f921"]]},"colorway":["#636efa","#EF553B","#00cc96","#ab63fa","#FFA15A","#19d3f3","#FF6692","#B6E880","#FF97FF","#FECB52"],"font":{"color":"#2a3f5f"},"geo":{"bgcolor":"white","lakecolor":"white","landcolor":"white","showlakes":true,"showland":true,"subunitcolor":"#C8D4E3"},"hoverlabel":{"align":"left"},"hovermode":"closest","mapbox":{"style":"light"},"paper_bgcolor":"white","plot_bgcolor":"white","polar":{"angularaxis":{"gridcolor":"#EBF0F8","linecolor":"#EBF0F8","ticks":""},"bgcolor":"white","radialaxis":{"gridcolor":"#EBF0F8","linecolor":"#EBF0F8","ticks":""}},"scene":{"xaxis":{"backgroundcolor":"white","gridcolor":"#DFE8F3","gridwidth":2,"linecolor":"#EBF0F8","showbackground":true,"ticks":"","zerolinecolor":"#EBF0F8"},"yaxis":{"backgroundcolor":"white","gridcolor":"#DFE8F3","gridwidth":2,"linecolor":"#EBF0F8","showbackground":true,"ticks":"","zerolinecolor":"#EBF0F8"},"zaxis":{"backgroundcolor":"white","gridcolor":"#DFE8F3","gridwidth":2,"linecolor":"#EBF0F8","showbackground":true,"ticks":"","zerolinecolor":"#EBF0F8"}},"shapedefaults":{"line":{"color":"#2a3f5f"}},"ternary":{"aaxis":{"gridcolor":"#DFE8F3","linecolor":"#A2B1C6","ticks":""},"baxis":{"gridcolor":"#DFE8F3","linecolor":"#A2B1C6","ticks":""},"bgcolor":"white","caxis":{"gridcolor":"#DFE8F3","linecolor":"#A2B1C6","ticks":""}},"title":{"x":0.05},"xaxis":{"automargin":true,"gridcolor":"#EBF0F8","linecolor":"#EBF0F8","ticks":"","title":{"standoff":15},"zerolinecolor":"#EBF0F8","zerolinewidth":2},"yaxis":{"automargin":true,"gridcolor":"#EBF0F8","linecolor":"#EBF0F8","ticks":"","title":{"standoff":15},"zerolinecolor":"#EBF0F8","zerolinewidth":2}}},"xaxis":{"anchor":"y","domain":[0.0,1.0],"title":{"text":"Batch size N"},"type":"log","showgrid":true},"yaxis":{"anchor":"x","domain":[0.0,0.597],"title":{"text":"ns per option"},"type":"log","showgrid":true},"annotations":[{"font":{"size":16},"showarrow":false,"text":"Log-log; lower is faster","x":0.5,"xanchor":"center","xref":"paper","y":0.597,"yanchor":"bottom","yref":"paper"}],"title":{"text":"Black-76 pricing throughput — Python 3.13.3\u003cbr\u003e\u003csub\u003e\u003cspan style='color:#555'\u003e● other Python libs\u003c\u002fspan\u003e &nbsp;·&nbsp; \u003cspan style='color:#1f5fb5'\u003e● Python ngv_opx\u003c\u002fspan\u003e &nbsp;·&nbsp; \u003cspan style='color:#1f7a3b'\u003e● JS @ngv\u002fopx (wasm)\u003c\u002fspan\u003e &nbsp;·&nbsp; \u003cspan style='color:#7b3fb5'\u003e● Rust ngv_opx (native)\u003c\u002fspan\u003e\u003c\u002fsub\u003e","x":0.5,"xanchor":"center"},"legend":{"orientation":"h","yanchor":"top","y":-0.12,"x":0.0},"margin":{"l":70,"r":30,"t":130,"b":80},"height":1100,"width":1200},                        {"responsive": true}                    )                };            </script>        </div>
 </body>
 </html>

diff --git a/benchmarks/update_readme.py b/benchmarks/update_readme.py
@@ -63,9 +63,11 @@ def build_html_table(paths) -> str:
         lang_cells.append(
             f'      <th align="center" colspan="{span}">{lang}</th>'
         )
+    # N spans all 4 header rows (language / library / variant / unit) so the
+    # left column lines up cleanly with the data rows below it.
     row1 = (
         '    <tr>\n'
-        '      <th rowspan="3" align="right">N</th>\n'
+        '      <th rowspan="4" align="right">N</th>\n'
         + "\n".join(lang_cells)
         + "\n    </tr>"
     )
@@ -85,6 +87,14 @@ def build_html_table(paths) -> str:
         var_cells.append(f'      <th align="center"><sub>{tag}</sub></th>')
     row3 = "    <tr>\n" + "\n".join(var_cells) + "\n    </tr>"
 
+    # Header row 4: unit. Every data cell below is per-option time in
+    # nanoseconds; surfacing the unit inside the table itself means readers
+    # don't have to scroll back to the prose to remember what "829.2" means.
+    unit_cells = [
+        '      <th align="center"><sub><i>ns / option</i></sub></th>'
+    ] * len(COLUMNS)
+    row4 = "    <tr>\n" + "\n".join(unit_cells) + "\n    </tr>"
+
     # Data rows.
     data_rows = []
     for n in sizes:
@@ -101,6 +111,7 @@ def build_html_table(paths) -> str:
         row1,
         row2,
         row3,
+        row4,
         "  </thead>",
         "  <tbody>",
         *data_rows,
@@ -115,8 +126,9 @@ def build_block(paths) -> str:
     return "\n".join([
         START,
         "",
-        f"Per-option time in nanoseconds (lower is faster). Measured on Python {pyver}.",
-        f"Header reads top-to-bottom as **language → library → call shape**, "
+        f"**All values are per-option time in nanoseconds (ns)** — lower is faster. "
+        f"Measured on Python {pyver}.",
+        f"Header reads top-to-bottom as **language → library → call shape → unit**, "
         f"matching `{HTML_REL}`. **Bold** marks the production `ngv_opx` paths.",
         "",
         table,

diff --git a/README.md b/README.md
@@ -104,17 +104,17 @@ The IV solver returns `-1.0` as a **sentinel** when IV is mathematically undefin
 
 ## Benchmarks
 
-Black-76 pricing throughput across implementations. Log-log; lower is faster.
+Black-76 pricing throughput across other libraries and NGV's cross language implementations.
 
 <!-- BENCH:START - auto-generated by `task bench:readme`, do not edit -->
 
-Per-option time in nanoseconds (lower is faster). Measured on Python 3.13.3.
-Header reads top-to-bottom as **language → library → call shape**, matching `benchmarks/bench_chart.html`. **Bold** marks the production `ngv_opx` paths.
+**All values are per-option time in nanoseconds (ns)** — lower is faster. Measured on Python 3.13.3.
+Header reads top-to-bottom as **language → library → call shape → unit**, matching `benchmarks/bench_chart.html`. **Bold** marks the production `ngv_opx` paths.
 
 <table>
   <thead>
     <tr>
-      <th rowspan="3" align="right">N</th>
+      <th rowspan="4" align="right">N</th>
       <th align="center" colspan="5">PYTHON</th>
       <th align="center" colspan="2">JAVASCRIPT</th>
       <th align="center" colspan="1">RUST</th>
@@ -139,73 +139,83 @@ Header reads top-to-bottom as **language → library → call shape**, matching 
       <th align="center"><sub><b>vectorized</b></sub></th>
       <th align="center"><sub><b>vectorized</b></sub></th>
     </tr>
+    <tr>
+      <th align="center"><sub><i>ns / option</i></sub></th>
+      <th align="center"><sub><i>ns / option</i></sub></th>
+      <th align="center"><sub><i>ns / option</i></sub></th>
+      <th align="center"><sub><i>ns / option</i></sub></th>
+      <th align="center"><sub><i>ns / option</i></sub></th>
+      <th align="center"><sub><i>ns / option</i></sub></th>
+      <th align="center"><sub><i>ns / option</i></sub></th>
+      <th align="center"><sub><i>ns / option</i></sub></th>
+    </tr>
   </thead>
   <tbody>
     <tr>
       <td align="right">10</td>
-      <td align="right">829.2</td>
-      <td align="right">741.7</td>
-      <td align="right">2,204.2</td>
-      <td align="right">362.5</td>
-      <td align="right"><b>129.2</b></td>
-      <td align="right">245.9</td>
-      <td align="right"><b>237.5</b></td>
+      <td align="right">808.3</td>
+      <td align="right">779.1</td>
+      <td align="right">2,262.5</td>
+      <td align="right">387.5</td>
+      <td align="right"><b>120.8</b></td>
+      <td align="right">237.5</td>
+      <td align="right"><b>250.0</b></td>
       <td align="right"><b>29.1</b></td>
     </tr>
     <tr>
       <td align="right">100</td>
-      <td align="right">731.7</td>
-      <td align="right">97.5</td>
-      <td align="right">2,126.3</td>
-      <td align="right">324.6</td>
-      <td align="right"><b>41.2</b></td>
-      <td align="right">163.8</td>
-      <td align="right"><b>75.8</b></td>
-      <td align="right"><b>29.2</b></td>
+      <td align="right">762.1</td>
+      <td align="right">105.8</td>
+      <td align="right">2,225.0</td>
+      <td align="right">341.7</td>
+      <td align="right"><b>42.9</b></td>
+      <td align="right">159.2</td>
+      <td align="right"><b>72.9</b></td>
+      <td align="right"><b>29.6</b></td>
     </tr>
     <tr>
       <td align="right">1,000</td>
-      <td align="right">723.6</td>
-      <td align="right">39.6</td>
-      <td align="right">2,054.5</td>
-      <td align="right">335.3</td>
-      <td align="right"><b>38.8</b></td>
-      <td align="right">233.8</td>
-      <td align="right"><b>64.4</b></td>
-      <td align="right"><b>31.5</b></td>
+      <td align="right">754.5</td>
+      <td align="right">41.5</td>
+      <td align="right">2,173.7</td>
+      <td align="right">328.8</td>
+      <td align="right"><b>40.3</b></td>
+      <td align="right">242.3</td>
+      <td align="right"><b>61.6</b></td>
+      <td align="right"><b>32.5</b></td>
     </tr>
     <tr>
       <td align="right">10,000</td>
-      <td align="right">729.5</td>
-      <td align="right">54.3</td>
-      <td align="right">2,070.6</td>
-      <td align="right">325.1</td>
-      <td align="right"><b>41.9</b></td>
-      <td align="right">70.1</td>
-      <td align="right"><b>60.1</b></td>
-      <td align="right"><b>36.6</b></td>
+      <td align="right">729.0</td>
+      <td align="right">54.6</td>
+      <td align="right">2,295.5</td>
+      <td align="right">319.5</td>
+      <td align="right"><b>41.8</b></td>
+      <td align="right">68.6</td>
+      <td align="right"><b>57.7</b></td>
+      <td align="right"><b>36.3</b></td>
     </tr>
     <tr>
       <td align="right">100,000</td>
-      <td align="right">728.9</td>
-      <td align="right">64.4</td>
-      <td align="right">2,097.3</td>
-      <td align="right">335.4</td>
-      <td align="right"><b>40.9</b></td>
-      <td align="right">65.3</td>
-      <td align="right"><b>57.1</b></td>
+      <td align="right">736.4</td>
+      <td align="right">65.1</td>
+      <td align="right">2,078.1</td>
+      <td align="right">318.2</td>
+      <td align="right"><b>41.3</b></td>
+      <td align="right">66.2</td>
+      <td align="right"><b>56.2</b></td>
       <td align="right"><b>37.8</b></td>
     </tr>
     <tr>
       <td align="right">1,000,000</td>
-      <td align="right">802.0</td>
-      <td align="right">83.1</td>
-      <td align="right">2,310.4</td>
-      <td align="right">392.7</td>
-      <td align="right"><b>41.6</b></td>
-      <td align="right">71.4</td>
-      <td align="right"><b>57.3</b></td>
-      <td align="right"><b>38.3</b></td>
+      <td align="right">731.7</td>
+      <td align="right">72.2</td>
+      <td align="right">2,148.4</td>
+      <td align="right">321.7</td>
+      <td align="right"><b>41.5</b></td>
+      <td align="right">65.8</td>
+      <td align="right"><b>56.6</b></td>
+      <td align="right"><b>38.5</b></td>
     </tr>
   </tbody>
 </table>
